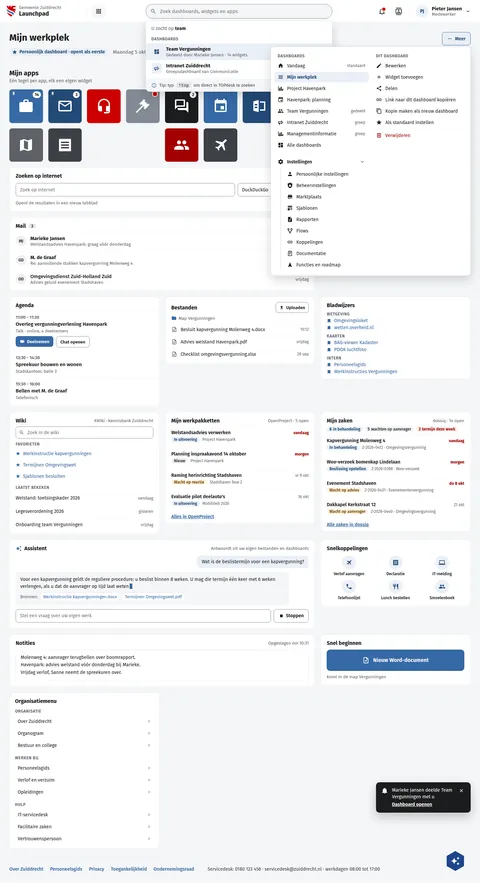
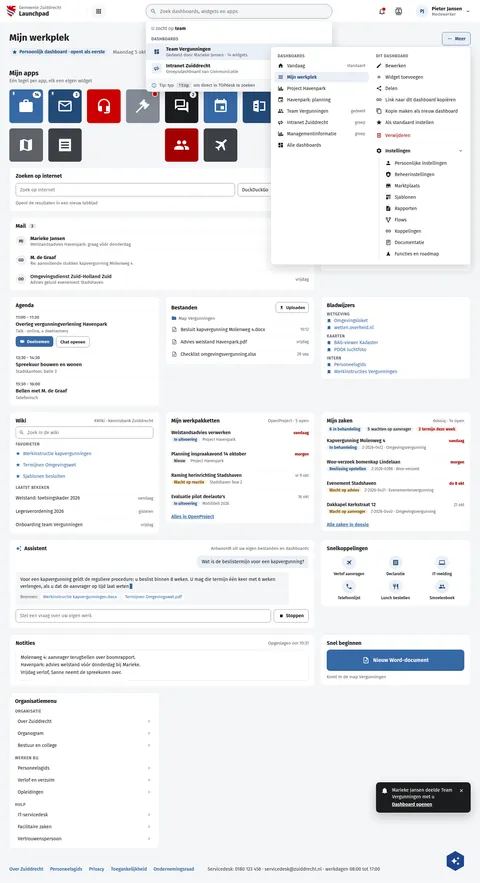
fix(screens): launchpad Meer menu moves Instellingen to the bottom of the right column
The expandable Instellingen item of the shared part LpMeer leaves the left column, which now holds only Dashboards and Alle dashboards. It sits at the bottom of the right column, under Verwijderen and a second rule, and unfolds in place there. Under 960 px the one-column menu reads Dashboards, Dit dashboard, Instellingen last. LpVandaag (collapsed) and LpWerkplek (expanded) are rebuilt; the capability note and DEMO-SEED follow.

The English catalogue translates the three menu strings that were empty in _common.json once, in place of per-board copies, so the one menu reads the same on every board.

Assisted-by: ClaudeCode:claude-fable-5-1

Changed region(s): [[0.7812, 0.1529, 0.9375, 0.3058], [0.5938, 0.1835, 0.7188, 0.3058]]

diff --git a/preview/screens/boards/LpWerkplek.html b/preview/screens/boards/LpWerkplek.html
@@ -112,7 +112,25 @@ a{color:var(--sc-primary, #3669a5)}a:hover{color:var(--sc-primary-deep, #234a78)
     
       <a href="#" role="menuitem" aria-checked="false" style="display: flex; align-items: center; gap: 10px; min-height: 32px; padding: 0 10px; border-radius: 6px; font-size: 14px; text-decoration: none; color: var(--sc-work-ink, #1b1c1d);"><svg width="18" height="18" viewbox="0 0 24 24" fill="currentColor" aria-hidden="true" style="flex: none"><path d="M13,3V9H21V3M13,21H21V11H13M3,21H11V15H3M3,13H11V3H3V13Z"></path></svg><span style="flex: 1; min-width: 0; white-space: nowrap; overflow: hidden; text-overflow: ellipsis">Alle dashboards</span></a>
     
-    <a href="#" role="menuitem" aria-haspopup="true" aria-expanded="true" style="display: flex; align-items: center; gap: 10px; min-height: 32px; padding: 0 10px; border-radius: 6px; font-size: 14px; text-decoration: none; margin-top: 6px; border-top: 1px solid var(--sc-work-soft, #eef0f3); border-radius: 0; padding-top: 6px; min-height: 38px; color: var(--sc-work-ink, #1b1c1d); font-weight: 600;"><svg width="18" height="18" viewbox="0 0 24 24" fill="currentColor" aria-hidden="true" style="flex: none"><path d="M12,15.5A3.5,3.5 0 0,1 8.5,12A3.5,3.5 0 0,1 12,8.5A3.5,3.5 0 0,1 15.5,12A3.5,3.5 0 0,1 12,15.5M19.43,12.97C19.47,12.65 19.5,12.33 19.5,12C19.5,11.67 19.47,11.34 19.43,11L21.54,9.37C21.73,9.22 21.78,8.95 21.66,8.73L19.66,5.27C19.54,5.05 19.27,4.96 19.05,5.05L16.56,6.05C16.04,5.66 15.5,5.32 14.87,5.07L14.5,2.42C14.46,2.18 14.25,2 14,2H10C9.75,2 9.54,2.18 9.5,2.42L9.13,5.07C8.5,5.32 7.96,5.66 7.44,6.05L4.95,5.05C4.73,4.96 4.46,5.05 4.34,5.27L2.34,8.73C2.21,8.95 2.27,9.22 2.46,9.37L4.57,11C4.53,11.34 4.5,11.67 4.5,12C4.5,12.33 4.53,12.65 4.57,12.97L2.46,14.63C2.27,14.78 2.21,15.05 2.34,15.27L4.34,18.73C4.46,18.95 4.73,19.03 4.95,18.95L7.44,17.94C7.96,18.34 8.5,18.68 9.13,18.93L9.5,21.58C9.54,21.82 9.75,22 10,22H14C14.25,22 14.46,21.82 14.5,21.58L14.87,18.93C15.5,18.67 16.04,18.34 16.56,17.94L19.05,18.95C19.27,19.03 19.54,18.95 19.66,18.73L21.66,15.27C21.78,15.05 21.73,14.78 21.54,14.63L19.43,12.97Z"></path></svg><span style="flex: 1; min-width: 0">Instellingen</span><svg width="18" height="18" viewbox="0 0 24 24" fill="#5e6168" aria-hidden="true" style="flex: none;fill:var(--sc-work-muted, #5e6168)"><path d="M7.41,8.58L12,13.17L16.59,8.58L18,10L12,16L6,10L7.41,8.58Z"></path></svg></a>
+  </div>
+  <div style="display: flex; flex-direction: column; gap: 2px; min-width: 0">
+    <span style="padding: 10px 10px 4px; font-size: 12px; font-weight: 600; letter-spacing: 0.06em; text-transform: uppercase; color: var(--sc-work-muted, #5e6168)">Dit dashboard</span>
+    
+      <a href="#" role="menuitem" style="display: flex; align-items: center; gap: 10px; min-height: 32px; padding: 0 10px; border-radius: 6px; font-size: 14px; text-decoration: none; color: var(--sc-work-ink, #1b1c1d);"><svg width="18" height="18" viewbox="0 0 24 24" fill="currentColor" aria-hidden="true" style="flex: none"><path d="M20.71,7.04C21.1,6.65 21.1,6 20.71,5.63L18.37,3.29C18,2.9 17.35,2.9 16.96,3.29L15.12,5.12L18.87,8.87M3,17.25V21H6.75L17.81,9.93L14.06,6.18L3,17.25Z"></path></svg><span style="flex: 1; min-width: 0; white-space: nowrap; overflow: hidden; text-overflow: ellipsis">Bewerken</span></a>
+    
+      <a href="#" role="menuitem" style="display: flex; align-items: center; gap: 10px; min-height: 32px; padding: 0 10px; border-radius: 6px; font-size: 14px; text-decoration: none; color: var(--sc-work-ink, #1b1c1d);"><svg width="18" height="18" viewbox="0 0 24 24" fill="currentColor" aria-hidden="true" style="flex: none"><path d="M19,13H13V19H11V13H5V11H11V5H13V11H19V13Z"></path></svg><span style="flex: 1; min-width: 0; white-space: nowrap; overflow: hidden; text-overflow: ellipsis">Widget toevoegen</span></a>
+    
+      <a href="#" role="menuitem" style="display: flex; align-items: center; gap: 10px; min-height: 32px; padding: 0 10px; border-radius: 6px; font-size: 14px; text-decoration: none; color: var(--sc-work-ink, #1b1c1d);"><svg width="18" height="18" viewbox="0 0 24 24" fill="currentColor" aria-hidden="true" style="flex: none"><path d="M18,16.08C17.24,16.08 16.56,16.38 16.04,16.85L8.91,12.7C8.96,12.47 9,12.24 9,12C9,11.76 8.96,11.53 8.91,11.3L15.96,7.19C16.5,7.69 17.21,8 18,8A3,3 0 0,0 21,5A3,3 0 0,0 18,2A3,3 0 0,0 15,5C15,5.24 15.04,5.47 15.09,5.7L8.04,9.81C7.5,9.31 6.79,9 6,9A3,3 0 0,0 3,12A3,3 0 0,0 6,15C6.79,15 7.5,14.69 8.04,14.19L15.16,18.34C15.11,18.55 15.08,18.77 15.08,19C15.08,20.61 16.39,21.91 18,21.91C19.61,21.91 20.92,20.61 20.92,19A2.92,2.92 0 0,0 18,16.08Z"></path></svg><span style="flex: 1; min-width: 0; white-space: nowrap; overflow: hidden; text-overflow: ellipsis">Delen</span></a>
+    
+      <a href="#" role="menuitem" style="display: flex; align-items: center; gap: 10px; min-height: 32px; padding: 0 10px; border-radius: 6px; font-size: 14px; text-decoration: none; color: var(--sc-work-ink, #1b1c1d);"><svg width="18" height="18" viewbox="0 0 24 24" fill="currentColor" aria-hidden="true" style="flex: none"><path d="M3.9,12C3.9,10.29 5.29,8.9 7,8.9H11V7H7A5,5 0 0,0 2,12A5,5 0 0,0 7,17H11V15.1H7C5.29,15.1 3.9,13.71 3.9,12M8,13H16V11H8V13M17,7H13V8.9H17C18.71,8.9 20.1,10.29 20.1,12C20.1,13.71 18.71,15.1 17,15.1H13V17H17A5,5 0 0,0 22,12A5,5 0 0,0 17,7Z"></path></svg><span style="flex: 1; min-width: 0; white-space: nowrap; overflow: hidden; text-overflow: ellipsis">Link naar dit dashboard kopiëren</span></a>
+    
+      <a href="#" role="menuitem" style="display: flex; align-items: center; gap: 10px; min-height: 32px; padding: 0 10px; border-radius: 6px; font-size: 14px; text-decoration: none; color: var(--sc-work-ink, #1b1c1d);"><svg width="18" height="18" viewbox="0 0 24 24" fill="currentColor" aria-hidden="true" style="flex: none"><path d="M19,21H8V7H19M19,5H8A2,2 0 0,0 6,7V21A2,2 0 0,0 8,23H19A2,2 0 0,0 21,21V7A2,2 0 0,0 19,5M16,1H4A2,2 0 0,0 2,3V17H4V3H16V1Z"></path></svg><span style="flex: 1; min-width: 0; white-space: nowrap; overflow: hidden; text-overflow: ellipsis">Kopie maken als nieuw dashboard</span></a>
+    
+      <a href="#" role="menuitem" style="display: flex; align-items: center; gap: 10px; min-height: 32px; padding: 0 10px; border-radius: 6px; font-size: 14px; text-decoration: none; color: var(--sc-work-ink, #1b1c1d);"><svg width="18" height="18" viewbox="0 0 24 24" fill="currentColor" aria-hidden="true" style="flex: none"><path d="M12,17.27L18.18,21L16.54,13.97L22,9.24L14.81,8.62L12,2L9.19,8.62L2,9.24L7.45,13.97L5.82,21L12,17.27Z"></path></svg><span style="flex: 1; min-width: 0; white-space: nowrap; overflow: hidden; text-overflow: ellipsis">Als standaard instellen</span></a>
+    
+      <a href="#" role="menuitem" style="display: flex; align-items: center; gap: 10px; min-height: 32px; padding: 0 10px; border-radius: 6px; font-size: 14px; text-decoration: none; color: var(--sc-accent-deep, #a30000); border-top: 1px solid var(--sc-work-soft, #eef0f3); border-radius: 0; margin-top: 4px;"><svg width="18" height="18" viewbox="0 0 24 24" fill="currentColor" aria-hidden="true" style="flex: none"><path d="M9,3V4H4V6H5V19A2,2 0 0,0 7,21H17A2,2 0 0,0 19,19V6H20V4H15V3H9M7,6H17V19H7V6M9,8V17H11V8H9M13,8V17H15V8H13Z"></path></svg><span style="flex: 1; min-width: 0; white-space: nowrap; overflow: hidden; text-overflow: ellipsis">Verwijderen</span></a>
+    
+    <a href="#" role="menuitem" aria-haspopup="true" aria-expanded="true" style="display: flex; align-items: center; gap: 10px; min-height: 32px; padding: 0 10px; border-radius: 6px; font-size: 14px; text-decoration: none; margin-top: 4px; border-top: 1px solid var(--sc-work-soft, #eef0f3); border-radius: 0; padding-top: 4px; min-height: 38px; color: var(--sc-work-ink, #1b1c1d); font-weight: 600;"><svg width="18" height="18" viewbox="0 0 24 24" fill="currentColor" aria-hidden="true" style="flex: none"><path d="M12,15.5A3.5,3.5 0 0,1 8.5,12A3.5,3.5 0 0,1 12,8.5A3.5,3.5 0 0,1 15.5,12A3.5,3.5 0 0,1 12,15.5M19.43,12.97C19.47,12.65 19.5,12.33 19.5,12C19.5,11.67 19.47,11.34 19.43,11L21.54,9.37C21.73,9.22 21.78,8.95 21.66,8.73L19.66,5.27C19.54,5.05 19.27,4.96 19.05,5.05L16.56,6.05C16.04,5.66 15.5,5.32 14.87,5.07L14.5,2.42C14.46,2.18 14.25,2 14,2H10C9.75,2 9.54,2.18 9.5,2.42L9.13,5.07C8.5,5.32 7.96,5.66 7.44,6.05L4.95,5.05C4.73,4.96 4.46,5.05 4.34,5.27L2.34,8.73C2.21,8.95 2.27,9.22 2.46,9.37L4.57,11C4.53,11.34 4.5,11.67 4.5,12C4.5,12.33 4.53,12.65 4.57,12.97L2.46,14.63C2.27,14.78 2.21,15.05 2.34,15.27L4.34,18.73C4.46,18.95 4.73,19.03 4.95,18.95L7.44,17.94C7.96,18.34 8.5,18.68 9.13,18.93L9.5,21.58C9.54,21.82 9.75,22 10,22H14C14.25,22 14.46,21.82 14.5,21.58L14.87,18.93C15.5,18.67 16.04,18.34 16.56,17.94L19.05,18.95C19.27,19.03 19.54,18.95 19.66,18.73L21.66,15.27C21.78,15.05 21.73,14.78 21.54,14.63L19.43,12.97Z"></path></svg><span style="flex: 1; min-width: 0">Instellingen</span><svg width="18" height="18" viewbox="0 0 24 24" fill="#5e6168" aria-hidden="true" style="flex: none;fill:var(--sc-work-muted, #5e6168)"><path d="M7.41,8.58L12,13.17L16.59,8.58L18,10L12,16L6,10L7.41,8.58Z"></path></svg></a>
     
       <div role="group" aria-label="Instellingen" style="display: flex; flex-direction: column; gap: 2px; margin: 0 0 4px 18px; padding-left: 8px; border-left: 2px solid var(--sc-work-line, #e4e6ea)">
         
@@ -135,24 +153,6 @@ a{color:var(--sc-primary, #3669a5)}a:hover{color:var(--sc-primary-deep, #234a78)
           <a href="#" role="menuitem" style="display: flex; align-items: center; gap: 10px; min-height: 32px; padding: 0 10px; border-radius: 6px; font-size: 14px; text-decoration: none; color: var(--sc-work-ink, #1b1c1d);"><svg width="18" height="18" viewbox="0 0 24 24" fill="currentColor" aria-hidden="true" style="flex: none"><path d="M12,2L4.5,20.29L5.21,21L12,18L18.79,21L19.5,20.29L12,2Z"></path></svg><span style="flex: 1; min-width: 0; white-space: nowrap; overflow: hidden; text-overflow: ellipsis">Functies en roadmap</span></a>
         
       </div>
-    
-  </div>
-  <div style="display: flex; flex-direction: column; gap: 2px; min-width: 0">
-    <span style="padding: 10px 10px 4px; font-size: 12px; font-weight: 600; letter-spacing: 0.06em; text-transform: uppercase; color: var(--sc-work-muted, #5e6168)">Dit dashboard</span>
-    
-      <a href="#" role="menuitem" style="display: flex; align-items: center; gap: 10px; min-height: 32px; padding: 0 10px; border-radius: 6px; font-size: 14px; text-decoration: none; color: var(--sc-work-ink, #1b1c1d);"><svg width="18" height="18" viewbox="0 0 24 24" fill="currentColor" aria-hidden="true" style="flex: none"><path d="M20.71,7.04C21.1,6.65 21.1,6 20.71,5.63L18.37,3.29C18,2.9 17.35,2.9 16.96,3.29L15.12,5.12L18.87,8.87M3,17.25V21H6.75L17.81,9.93L14.06,6.18L3,17.25Z"></path></svg><span style="flex: 1; min-width: 0; white-space: nowrap; overflow: hidden; text-overflow: ellipsis">Bewerken</span></a>
-    
-      <a href="#" role="menuitem" style="display: flex; align-items: center; gap: 10px; min-height: 32px; padding: 0 10px; border-radius: 6px; font-size: 14px; text-decoration: none; color: var(--sc-work-ink, #1b1c1d);"><svg width="18" height="18" viewbox="0 0 24 24" fill="currentColor" aria-hidden="true" style="flex: none"><path d="M19,13H13V19H11V13H5V11H11V5H13V11H19V13Z"></path></svg><span style="flex: 1; min-width: 0; white-space: nowrap; overflow: hidden; text-overflow: ellipsis">Widget toevoegen</span></a>
-    
-      <a href="#" role="menuitem" style="display: flex; align-items: center; gap: 10px; min-height: 32px; padding: 0 10px; border-radius: 6px; font-size: 14px; text-decoration: none; color: var(--sc-work-ink, #1b1c1d);"><svg width="18" height="18" viewbox="0 0 24 24" fill="currentColor" aria-hidden="true" style="flex: none"><path d="M18,16.08C17.24,16.08 16.56,16.38 16.04,16.85L8.91,12.7C8.96,12.47 9,12.24 9,12C9,11.76 8.96,11.53 8.91,11.3L15.96,7.19C16.5,7.69 17.21,8 18,8A3,3 0 0,0 21,5A3,3 0 0,0 18,2A3,3 0 0,0 15,5C15,5.24 15.04,5.47 15.09,5.7L8.04,9.81C7.5,9.31 6.79,9 6,9A3,3 0 0,0 3,12A3,3 0 0,0 6,15C6.79,15 7.5,14.69 8.04,14.19L15.16,18.34C15.11,18.55 15.08,18.77 15.08,19C15.08,20.61 16.39,21.91 18,21.91C19.61,21.91 20.92,20.61 20.92,19A2.92,2.92 0 0,0 18,16.08Z"></path></svg><span style="flex: 1; min-width: 0; white-space: nowrap; overflow: hidden; text-overflow: ellipsis">Delen</span></a>
-    
-      <a href="#" role="menuitem" style="display: flex; align-items: center; gap: 10px; min-height: 32px; padding: 0 10px; border-radius: 6px; font-size: 14px; text-decoration: none; color: var(--sc-work-ink, #1b1c1d);"><svg width="18" height="18" viewbox="0 0 24 24" fill="currentColor" aria-hidden="true" style="flex: none"><path d="M3.9,12C3.9,10.29 5.29,8.9 7,8.9H11V7H7A5,5 0 0,0 2,12A5,5 0 0,0 7,17H11V15.1H7C5.29,15.1 3.9,13.71 3.9,12M8,13H16V11H8V13M17,7H13V8.9H17C18.71,8.9 20.1,10.29 20.1,12C20.1,13.71 18.71,15.1 17,15.1H13V17H17A5,5 0 0,0 22,12A5,5 0 0,0 17,7Z"></path></svg><span style="flex: 1; min-width: 0; white-space: nowrap; overflow: hidden; text-overflow: ellipsis">Link naar dit dashboard kopiëren</span></a>
-    
-      <a href="#" role="menuitem" style="display: flex; align-items: center; gap: 10px; min-height: 32px; padding: 0 10px; border-radius: 6px; font-size: 14px; text-decoration: none; color: var(--sc-work-ink, #1b1c1d);"><svg width="18" height="18" viewbox="0 0 24 24" fill="currentColor" aria-hidden="true" style="flex: none"><path d="M19,21H8V7H19M19,5H8A2,2 0 0,0 6,7V21A2,2 0 0,0 8,23H19A2,2 0 0,0 21,21V7A2,2 0 0,0 19,5M16,1H4A2,2 0 0,0 2,3V17H4V3H16V1Z"></path></svg><span style="flex: 1; min-width: 0; white-space: nowrap; overflow: hidden; text-overflow: ellipsis">Kopie maken als nieuw dashboard</span></a>
-    
-      <a href="#" role="menuitem" style="display: flex; align-items: center; gap: 10px; min-height: 32px; padding: 0 10px; border-radius: 6px; font-size: 14px; text-decoration: none; color: var(--sc-work-ink, #1b1c1d);"><svg width="18" height="18" viewbox="0 0 24 24" fill="currentColor" aria-hidden="true" style="flex: none"><path d="M12,17.27L18.18,21L16.54,13.97L22,9.24L14.81,8.62L12,2L9.19,8.62L2,9.24L7.45,13.97L5.82,21L12,17.27Z"></path></svg><span style="flex: 1; min-width: 0; white-space: nowrap; overflow: hidden; text-overflow: ellipsis">Als standaard instellen</span></a>
-    
-      <a href="#" role="menuitem" style="display: flex; align-items: center; gap: 10px; min-height: 32px; padding: 0 10px; border-radius: 6px; font-size: 14px; text-decoration: none; color: var(--sc-accent-deep, #a30000); border-top: 1px solid var(--sc-work-soft, #eef0f3); border-radius: 0 0 6px 6px; margin-top: 4px;"><svg width="18" height="18" viewbox="0 0 24 24" fill="currentColor" aria-hidden="true" style="flex: none"><path d="M9,3V4H4V6H5V19A2,2 0 0,0 7,21H17A2,2 0 0,0 19,19V6H20V4H15V3H9M7,6H17V19H7V6M9,8V17H11V8H9M13,8V17H15V8H13Z"></path></svg><span style="flex: 1; min-width: 0; white-space: nowrap; overflow: hidden; text-overflow: ellipsis">Verwijderen</span></a>
     
   </div>
 </div>

diff --git a/preview/screens/boards/LpMeer.html b/preview/screens/boards/LpMeer.html
@@ -39,7 +39,25 @@ body{margin:0}
     
       <a href="#" role="menuitem" aria-checked="false" style="display: flex; align-items: center; gap: 10px; min-height: 32px; padding: 0 10px; border-radius: 6px; font-size: 14px; text-decoration: none; color: var(--sc-work-ink, #1b1c1d);"><svg width="18" height="18" viewbox="0 0 24 24" fill="currentColor" aria-hidden="true" style="flex: none"><path d="M13,3V9H21V3M13,21H21V11H13M3,21H11V15H3M3,13H11V3H3V13Z"></path></svg><span style="flex: 1; min-width: 0; white-space: nowrap; overflow: hidden; text-overflow: ellipsis">Alle dashboards</span></a>
     
-    <a href="#" role="menuitem" aria-haspopup="true" aria-expanded="true" style="display: flex; align-items: center; gap: 10px; min-height: 32px; padding: 0 10px; border-radius: 6px; font-size: 14px; text-decoration: none; margin-top: 6px; border-top: 1px solid var(--sc-work-soft, #eef0f3); border-radius: 0; padding-top: 6px; min-height: 38px; color: var(--sc-work-ink, #1b1c1d); font-weight: 600;"><svg width="18" height="18" viewbox="0 0 24 24" fill="currentColor" aria-hidden="true" style="flex: none"><path d="M12,15.5A3.5,3.5 0 0,1 8.5,12A3.5,3.5 0 0,1 12,8.5A3.5,3.5 0 0,1 15.5,12A3.5,3.5 0 0,1 12,15.5M19.43,12.97C19.47,12.65 19.5,12.33 19.5,12C19.5,11.67 19.47,11.34 19.43,11L21.54,9.37C21.73,9.22 21.78,8.95 21.66,8.73L19.66,5.27C19.54,5.05 19.27,4.96 19.05,5.05L16.56,6.05C16.04,5.66 15.5,5.32 14.87,5.07L14.5,2.42C14.46,2.18 14.25,2 14,2H10C9.75,2 9.54,2.18 9.5,2.42L9.13,5.07C8.5,5.32 7.96,5.66 7.44,6.05L4.95,5.05C4.73,4.96 4.46,5.05 4.34,5.27L2.34,8.73C2.21,8.95 2.27,9.22 2.46,9.37L4.57,11C4.53,11.34 4.5,11.67 4.5,12C4.5,12.33 4.53,12.65 4.57,12.97L2.46,14.63C2.27,14.78 2.21,15.05 2.34,15.27L4.34,18.73C4.46,18.95 4.73,19.03 4.95,18.95L7.44,17.94C7.96,18.34 8.5,18.68 9.13,18.93L9.5,21.58C9.54,21.82 9.75,22 10,22H14C14.25,22 14.46,21.82 14.5,21.58L14.87,18.93C15.5,18.67 16.04,18.34 16.56,17.94L19.05,18.95C19.27,19.03 19.54,18.95 19.66,18.73L21.66,15.27C21.78,15.05 21.73,14.78 21.54,14.63L19.43,12.97Z"></path></svg><span style="flex: 1; min-width: 0">Instellingen</span><svg width="18" height="18" viewbox="0 0 24 24" fill="#5e6168" aria-hidden="true" style="flex: none;fill:var(--sc-work-muted, #5e6168)"><path d="M7.41,8.58L12,13.17L16.59,8.58L18,10L12,16L6,10L7.41,8.58Z"></path></svg></a>
+  </div>
+  <div style="display: flex; flex-direction: column; gap: 2px; min-width: 0">
+    <span style="padding: 10px 10px 4px; font-size: 12px; font-weight: 600; letter-spacing: 0.06em; text-transform: uppercase; color: var(--sc-work-muted, #5e6168)">Dit dashboard</span>
+    
+      <a href="#" role="menuitem" style="display: flex; align-items: center; gap: 10px; min-height: 32px; padding: 0 10px; border-radius: 6px; font-size: 14px; text-decoration: none; color: var(--sc-work-ink, #1b1c1d);"><svg width="18" height="18" viewbox="0 0 24 24" fill="currentColor" aria-hidden="true" style="flex: none"><path d="M20.71,7.04C21.1,6.65 21.1,6 20.71,5.63L18.37,3.29C18,2.9 17.35,2.9 16.96,3.29L15.12,5.12L18.87,8.87M3,17.25V21H6.75L17.81,9.93L14.06,6.18L3,17.25Z"></path></svg><span style="flex: 1; min-width: 0; white-space: nowrap; overflow: hidden; text-overflow: ellipsis">Bewerken</span></a>
+    
+      <a href="#" role="menuitem" style="display: flex; align-items: center; gap: 10px; min-height: 32px; padding: 0 10px; border-radius: 6px; font-size: 14px; text-decoration: none; color: var(--sc-work-ink, #1b1c1d);"><svg width="18" height="18" viewbox="0 0 24 24" fill="currentColor" aria-hidden="true" style="flex: none"><path d="M19,13H13V19H11V13H5V11H11V5H13V11H19V13Z"></path></svg><span style="flex: 1; min-width: 0; white-space: nowrap; overflow: hidden; text-overflow: ellipsis">Widget toevoegen</span></a>
+    
+      <a href="#" role="menuitem" style="display: flex; align-items: center; gap: 10px; min-height: 32px; padding: 0 10px; border-radius: 6px; font-size: 14px; text-decoration: none; color: var(--sc-work-ink, #1b1c1d);"><svg width="18" height="18" viewbox="0 0 24 24" fill="currentColor" aria-hidden="true" style="flex: none"><path d="M18,16.08C17.24,16.08 16.56,16.38 16.04,16.85L8.91,12.7C8.96,12.47 9,12.24 9,12C9,11.76 8.96,11.53 8.91,11.3L15.96,7.19C16.5,7.69 17.21,8 18,8A3,3 0 0,0 21,5A3,3 0 0,0 18,2A3,3 0 0,0 15,5C15,5.24 15.04,5.47 15.09,5.7L8.04,9.81C7.5,9.31 6.79,9 6,9A3,3 0 0,0 3,12A3,3 0 0,0 6,15C6.79,15 7.5,14.69 8.04,14.19L15.16,18.34C15.11,18.55 15.08,18.77 15.08,19C15.08,20.61 16.39,21.91 18,21.91C19.61,21.91 20.92,20.61 20.92,19A2.92,2.92 0 0,0 18,16.08Z"></path></svg><span style="flex: 1; min-width: 0; white-space: nowrap; overflow: hidden; text-overflow: ellipsis">Delen</span></a>
+    
+      <a href="#" role="menuitem" style="display: flex; align-items: center; gap: 10px; min-height: 32px; padding: 0 10px; border-radius: 6px; font-size: 14px; text-decoration: none; color: var(--sc-work-ink, #1b1c1d);"><svg width="18" height="18" viewbox="0 0 24 24" fill="currentColor" aria-hidden="true" style="flex: none"><path d="M3.9,12C3.9,10.29 5.29,8.9 7,8.9H11V7H7A5,5 0 0,0 2,12A5,5 0 0,0 7,17H11V15.1H7C5.29,15.1 3.9,13.71 3.9,12M8,13H16V11H8V13M17,7H13V8.9H17C18.71,8.9 20.1,10.29 20.1,12C20.1,13.71 18.71,15.1 17,15.1H13V17H17A5,5 0 0,0 22,12A5,5 0 0,0 17,7Z"></path></svg><span style="flex: 1; min-width: 0; white-space: nowrap; overflow: hidden; text-overflow: ellipsis">Link naar dit dashboard kopiëren</span></a>
+    
+      <a href="#" role="menuitem" style="display: flex; align-items: center; gap: 10px; min-height: 32px; padding: 0 10px; border-radius: 6px; font-size: 14px; text-decoration: none; color: var(--sc-work-ink, #1b1c1d);"><svg width="18" height="18" viewbox="0 0 24 24" fill="currentColor" aria-hidden="true" style="flex: none"><path d="M19,21H8V7H19M19,5H8A2,2 0 0,0 6,7V21A2,2 0 0,0 8,23H19A2,2 0 0,0 21,21V7A2,2 0 0,0 19,5M16,1H4A2,2 0 0,0 2,3V17H4V3H16V1Z"></path></svg><span style="flex: 1; min-width: 0; white-space: nowrap; overflow: hidden; text-overflow: ellipsis">Kopie maken als nieuw dashboard</span></a>
+    
+      <a href="#" role="menuitem" style="display: flex; align-items: center; gap: 10px; min-height: 32px; padding: 0 10px; border-radius: 6px; font-size: 14px; text-decoration: none; color: var(--sc-work-ink, #1b1c1d);"><svg width="18" height="18" viewbox="0 0 24 24" fill="currentColor" aria-hidden="true" style="flex: none"><path d="M12,17.27L18.18,21L16.54,13.97L22,9.24L14.81,8.62L12,2L9.19,8.62L2,9.24L7.45,13.97L5.82,21L12,17.27Z"></path></svg><span style="flex: 1; min-width: 0; white-space: nowrap; overflow: hidden; text-overflow: ellipsis">Als standaard instellen</span></a>
+    
+      <a href="#" role="menuitem" style="display: flex; align-items: center; gap: 10px; min-height: 32px; padding: 0 10px; border-radius: 6px; font-size: 14px; text-decoration: none; color: var(--sc-accent-deep, #a30000); border-top: 1px solid var(--sc-work-soft, #eef0f3); border-radius: 0; margin-top: 4px;"><svg width="18" height="18" viewbox="0 0 24 24" fill="currentColor" aria-hidden="true" style="flex: none"><path d="M9,3V4H4V6H5V19A2,2 0 0,0 7,21H17A2,2 0 0,0 19,19V6H20V4H15V3H9M7,6H17V19H7V6M9,8V17H11V8H9M13,8V17H15V8H13Z"></path></svg><span style="flex: 1; min-width: 0; white-space: nowrap; overflow: hidden; text-overflow: ellipsis">Verwijderen</span></a>
+    
+    <a href="#" role="menuitem" aria-haspopup="true" aria-expanded="true" style="display: flex; align-items: center; gap: 10px; min-height: 32px; padding: 0 10px; border-radius: 6px; font-size: 14px; text-decoration: none; margin-top: 4px; border-top: 1px solid var(--sc-work-soft, #eef0f3); border-radius: 0; padding-top: 4px; min-height: 38px; color: var(--sc-work-ink, #1b1c1d); font-weight: 600;"><svg width="18" height="18" viewbox="0 0 24 24" fill="currentColor" aria-hidden="true" style="flex: none"><path d="M12,15.5A3.5,3.5 0 0,1 8.5,12A3.5,3.5 0 0,1 12,8.5A3.5,3.5 0 0,1 15.5,12A3.5,3.5 0 0,1 12,15.5M19.43,12.97C19.47,12.65 19.5,12.33 19.5,12C19.5,11.67 19.47,11.34 19.43,11L21.54,9.37C21.73,9.22 21.78,8.95 21.66,8.73L19.66,5.27C19.54,5.05 19.27,4.96 19.05,5.05L16.56,6.05C16.04,5.66 15.5,5.32 14.87,5.07L14.5,2.42C14.46,2.18 14.25,2 14,2H10C9.75,2 9.54,2.18 9.5,2.42L9.13,5.07C8.5,5.32 7.96,5.66 7.44,6.05L4.95,5.05C4.73,4.96 4.46,5.05 4.34,5.27L2.34,8.73C2.21,8.95 2.27,9.22 2.46,9.37L4.57,11C4.53,11.34 4.5,11.67 4.5,12C4.5,12.33 4.53,12.65 4.57,12.97L2.46,14.63C2.27,14.78 2.21,15.05 2.34,15.27L4.34,18.73C4.46,18.95 4.73,19.03 4.95,18.95L7.44,17.94C7.96,18.34 8.5,18.68 9.13,18.93L9.5,21.58C9.54,21.82 9.75,22 10,22H14C14.25,22 14.46,21.82 14.5,21.58L14.87,18.93C15.5,18.67 16.04,18.34 16.56,17.94L19.05,18.95C19.27,19.03 19.54,18.95 19.66,18.73L21.66,15.27C21.78,15.05 21.73,14.78 21.54,14.63L19.43,12.97Z"></path></svg><span style="flex: 1; min-width: 0">Instellingen</span><svg width="18" height="18" viewbox="0 0 24 24" fill="#5e6168" aria-hidden="true" style="flex: none;fill:var(--sc-work-muted, #5e6168)"><path d="M7.41,8.58L12,13.17L16.59,8.58L18,10L12,16L6,10L7.41,8.58Z"></path></svg></a>
     
       <div role="group" aria-label="Instellingen" style="display: flex; flex-direction: column; gap: 2px; margin: 0 0 4px 18px; padding-left: 8px; border-left: 2px solid var(--sc-work-line, #e4e6ea)">
         
@@ -62,24 +80,6 @@ body{margin:0}
           <a href="#" role="menuitem" style="display: flex; align-items: center; gap: 10px; min-height: 32px; padding: 0 10px; border-radius: 6px; font-size: 14px; text-decoration: none; color: var(--sc-work-ink, #1b1c1d);"><svg width="18" height="18" viewbox="0 0 24 24" fill="currentColor" aria-hidden="true" style="flex: none"><path d="M12,2L4.5,20.29L5.21,21L12,18L18.79,21L19.5,20.29L12,2Z"></path></svg><span style="flex: 1; min-width: 0; white-space: nowrap; overflow: hidden; text-overflow: ellipsis">Functies en roadmap</span></a>
         
       </div>
-    
-  </div>
-  <div style="display: flex; flex-direction: column; gap: 2px; min-width: 0">
-    <span style="padding: 10px 10px 4px; font-size: 12px; font-weight: 600; letter-spacing: 0.06em; text-transform: uppercase; color: var(--sc-work-muted, #5e6168)">Dit dashboard</span>
-    
-      <a href="#" role="menuitem" style="display: flex; align-items: center; gap: 10px; min-height: 32px; padding: 0 10px; border-radius: 6px; font-size: 14px; text-decoration: none; color: var(--sc-work-ink, #1b1c1d);"><svg width="18" height="18" viewbox="0 0 24 24" fill="currentColor" aria-hidden="true" style="flex: none"><path d="M20.71,7.04C21.1,6.65 21.1,6 20.71,5.63L18.37,3.29C18,2.9 17.35,2.9 16.96,3.29L15.12,5.12L18.87,8.87M3,17.25V21H6.75L17.81,9.93L14.06,6.18L3,17.25Z"></path></svg><span style="flex: 1; min-width: 0; white-space: nowrap; overflow: hidden; text-overflow: ellipsis">Bewerken</span></a>
-    
-      <a href="#" role="menuitem" style="display: flex; align-items: center; gap: 10px; min-height: 32px; padding: 0 10px; border-radius: 6px; font-size: 14px; text-decoration: none; color: var(--sc-work-ink, #1b1c1d);"><svg width="18" height="18" viewbox="0 0 24 24" fill="currentColor" aria-hidden="true" style="flex: none"><path d="M19,13H13V19H11V13H5V11H11V5H13V11H19V13Z"></path></svg><span style="flex: 1; min-width: 0; white-space: nowrap; overflow: hidden; text-overflow: ellipsis">Widget toevoegen</span></a>
-    
-      <a href="#" role="menuitem" style="display: flex; align-items: center; gap: 10px; min-height: 32px; padding: 0 10px; border-radius: 6px; font-size: 14px; text-decoration: none; color: var(--sc-work-ink, #1b1c1d);"><svg width="18" height="18" viewbox="0 0 24 24" fill="currentColor" aria-hidden="true" style="flex: none"><path d="M18,16.08C17.24,16.08 16.56,16.38 16.04,16.85L8.91,12.7C8.96,12.47 9,12.24 9,12C9,11.76 8.96,11.53 8.91,11.3L15.96,7.19C16.5,7.69 17.21,8 18,8A3,3 0 0,0 21,5A3,3 0 0,0 18,2A3,3 0 0,0 15,5C15,5.24 15.04,5.47 15.09,5.7L8.04,9.81C7.5,9.31 6.79,9 6,9A3,3 0 0,0 3,12A3,3 0 0,0 6,15C6.79,15 7.5,14.69 8.04,14.19L15.16,18.34C15.11,18.55 15.08,18.77 15.08,19C15.08,20.61 16.39,21.91 18,21.91C19.61,21.91 20.92,20.61 20.92,19A2.92,2.92 0 0,0 18,16.08Z"></path></svg><span style="flex: 1; min-width: 0; white-space: nowrap; overflow: hidden; text-overflow: ellipsis">Delen</span></a>
-    
-      <a href="#" role="menuitem" style="display: flex; align-items: center; gap: 10px; min-height: 32px; padding: 0 10px; border-radius: 6px; font-size: 14px; text-decoration: none; color: var(--sc-work-ink, #1b1c1d);"><svg width="18" height="18" viewbox="0 0 24 24" fill="currentColor" aria-hidden="true" style="flex: none"><path d="M3.9,12C3.9,10.29 5.29,8.9 7,8.9H11V7H7A5,5 0 0,0 2,12A5,5 0 0,0 7,17H11V15.1H7C5.29,15.1 3.9,13.71 3.9,12M8,13H16V11H8V13M17,7H13V8.9H17C18.71,8.9 20.1,10.29 20.1,12C20.1,13.71 18.71,15.1 17,15.1H13V17H17A5,5 0 0,0 22,12A5,5 0 0,0 17,7Z"></path></svg><span style="flex: 1; min-width: 0; white-space: nowrap; overflow: hidden; text-overflow: ellipsis">Link naar dit dashboard kopiëren</span></a>
-    
-      <a href="#" role="menuitem" style="display: flex; align-items: center; gap: 10px; min-height: 32px; padding: 0 10px; border-radius: 6px; font-size: 14px; text-decoration: none; color: var(--sc-work-ink, #1b1c1d);"><svg width="18" height="18" viewbox="0 0 24 24" fill="currentColor" aria-hidden="true" style="flex: none"><path d="M19,21H8V7H19M19,5H8A2,2 0 0,0 6,7V21A2,2 0 0,0 8,23H19A2,2 0 0,0 21,21V7A2,2 0 0,0 19,5M16,1H4A2,2 0 0,0 2,3V17H4V3H16V1Z"></path></svg><span style="flex: 1; min-width: 0; white-space: nowrap; overflow: hidden; text-overflow: ellipsis">Kopie maken als nieuw dashboard</span></a>
-    
-      <a href="#" role="menuitem" style="display: flex; align-items: center; gap: 10px; min-height: 32px; padding: 0 10px; border-radius: 6px; font-size: 14px; text-decoration: none; color: var(--sc-work-ink, #1b1c1d);"><svg width="18" height="18" viewbox="0 0 24 24" fill="currentColor" aria-hidden="true" style="flex: none"><path d="M12,17.27L18.18,21L16.54,13.97L22,9.24L14.81,8.62L12,2L9.19,8.62L2,9.24L7.45,13.97L5.82,21L12,17.27Z"></path></svg><span style="flex: 1; min-width: 0; white-space: nowrap; overflow: hidden; text-overflow: ellipsis">Als standaard instellen</span></a>
-    
-      <a href="#" role="menuitem" style="display: flex; align-items: center; gap: 10px; min-height: 32px; padding: 0 10px; border-radius: 6px; font-size: 14px; text-decoration: none; color: var(--sc-accent-deep, #a30000); border-top: 1px solid var(--sc-work-soft, #eef0f3); border-radius: 0 0 6px 6px; margin-top: 4px;"><svg width="18" height="18" viewbox="0 0 24 24" fill="currentColor" aria-hidden="true" style="flex: none"><path d="M9,3V4H4V6H5V19A2,2 0 0,0 7,21H17A2,2 0 0,0 19,19V6H20V4H15V3H9M7,6H17V19H7V6M9,8V17H11V8H9M13,8V17H15V8H13Z"></path></svg><span style="flex: 1; min-width: 0; white-space: nowrap; overflow: hidden; text-overflow: ellipsis">Verwijderen</span></a>
     
   </div>
 </div>

diff --git a/preview/screens/boards/LpVandaag.html b/preview/screens/boards/LpVandaag.html
@@ -112,8 +112,6 @@ a{color:var(--sc-primary, #3669a5)}a:hover{color:var(--sc-primary-deep, #234a78)
     
       <a href="#" role="menuitem" aria-checked="false" style="display: flex; align-items: center; gap: 10px; min-height: 32px; padding: 0 10px; border-radius: 6px; font-size: 14px; text-decoration: none; color: var(--sc-work-ink, #1b1c1d);"><svg width="18" height="18" viewbox="0 0 24 24" fill="currentColor" aria-hidden="true" style="flex: none"><path d="M13,3V9H21V3M13,21H21V11H13M3,21H11V15H3M3,13H11V3H3V13Z"></path></svg><span style="flex: 1; min-width: 0; white-space: nowrap; overflow: hidden; text-overflow: ellipsis">Alle dashboards</span></a>
     
-    <a href="#" role="menuitem" aria-haspopup="true" aria-expanded="false" style="display: flex; align-items: center; gap: 10px; min-height: 32px; padding: 0 10px; border-radius: 6px; font-size: 14px; text-decoration: none; margin-top: 6px; border-top: 1px solid var(--sc-work-soft, #eef0f3); border-radius: 0; padding-top: 6px; min-height: 38px; color: var(--sc-work-ink, #1b1c1d);"><svg width="18" height="18" viewbox="0 0 24 24" fill="currentColor" aria-hidden="true" style="flex: none"><path d="M12,15.5A3.5,3.5 0 0,1 8.5,12A3.5,3.5 0 0,1 12,8.5A3.5,3.5 0 0,1 15.5,12A3.5,3.5 0 0,1 12,15.5M19.43,12.97C19.47,12.65 19.5,12.33 19.5,12C19.5,11.67 19.47,11.34 19.43,11L21.54,9.37C21.73,9.22 21.78,8.95 21.66,8.73L19.66,5.27C19.54,5.05 19.27,4.96 19.05,5.05L16.56,6.05C16.04,5.66 15.5,5.32 14.87,5.07L14.5,2.42C14.46,2.18 14.25,2 14,2H10C9.75,2 9.54,2.18 9.5,2.42L9.13,5.07C8.5,5.32 7.96,5.66 7.44,6.05L4.95,5.05C4.73,4.96 4.46,5.05 4.34,5.27L2.34,8.73C2.21,8.95 2.27,9.22 2.46,9.37L4.57,11C4.53,11.34 4.5,11.67 4.5,12C4.5,12.33 4.53,12.65 4.57,12.97L2.46,14.63C2.27,14.78 2.21,15.05 2.34,15.27L4.34,18.73C4.46,18.95 4.73,19.03 4.95,18.95L7.44,17.94C7.96,18.34 8.5,18.68 9.13,18.93L9.5,21.58C9.54,21.82 9.75,22 10,22H14C14.25,22 14.46,21.82 14.5,21.58L14.87,18.93C15.5,18.67 16.04,18.34 16.56,17.94L19.05,18.95C19.27,19.03 19.54,18.95 19.66,18.73L21.66,15.27C21.78,15.05 21.73,14.78 21.54,14.63L19.43,12.97Z"></path></svg><span style="flex: 1; min-width: 0">Instellingen</span><svg width="18" height="18" viewbox="0 0 24 24" fill="#5e6168" aria-hidden="true" style="flex: none;fill:var(--sc-work-muted, #5e6168)"><path d="M8.59,16.58L13.17,12L8.59,7.41L10,6L16,12L10,18L8.59,16.58Z"></path></svg></a>
-    
   </div>
   <div style="display: flex; flex-direction: column; gap: 2px; min-width: 0">
     <span style="padding: 10px 10px 4px; font-size: 12px; font-weight: 600; letter-spacing: 0.06em; text-transform: uppercase; color: var(--sc-work-muted, #5e6168)">Dit dashboard</span>
@@ -130,7 +128,9 @@ a{color:var(--sc-primary, #3669a5)}a:hover{color:var(--sc-primary-deep, #234a78)
     
       <a href="#" role="menuitem" style="display: flex; align-items: center; gap: 10px; min-height: 32px; padding: 0 10px; border-radius: 6px; font-size: 14px; text-decoration: none; color: var(--sc-work-ink, #1b1c1d);"><svg width="18" height="18" viewbox="0 0 24 24" fill="currentColor" aria-hidden="true" style="flex: none"><path d="M12,17.27L18.18,21L16.54,13.97L22,9.24L14.81,8.62L12,2L9.19,8.62L2,9.24L7.45,13.97L5.82,21L12,17.27Z"></path></svg><span style="flex: 1; min-width: 0; white-space: nowrap; overflow: hidden; text-overflow: ellipsis">Als standaard instellen</span></a>
     
-      <a href="#" role="menuitem" style="display: flex; align-items: center; gap: 10px; min-height: 32px; padding: 0 10px; border-radius: 6px; font-size: 14px; text-decoration: none; color: var(--sc-accent-deep, #a30000); border-top: 1px solid var(--sc-work-soft, #eef0f3); border-radius: 0 0 6px 6px; margin-top: 4px;"><svg width="18" height="18" viewbox="0 0 24 24" fill="currentColor" aria-hidden="true" style="flex: none"><path d="M9,3V4H4V6H5V19A2,2 0 0,0 7,21H17A2,2 0 0,0 19,19V6H20V4H15V3H9M7,6H17V19H7V6M9,8V17H11V8H9M13,8V17H15V8H13Z"></path></svg><span style="flex: 1; min-width: 0; white-space: nowrap; overflow: hidden; text-overflow: ellipsis">Verwijderen</span></a>
+      <a href="#" role="menuitem" style="display: flex; align-items: center; gap: 10px; min-height: 32px; padding: 0 10px; border-radius: 6px; font-size: 14px; text-decoration: none; color: var(--sc-accent-deep, #a30000); border-top: 1px solid var(--sc-work-soft, #eef0f3); border-radius: 0; margin-top: 4px;"><svg width="18" height="18" viewbox="0 0 24 24" fill="currentColor" aria-hidden="true" style="flex: none"><path d="M9,3V4H4V6H5V19A2,2 0 0,0 7,21H17A2,2 0 0,0 19,19V6H20V4H15V3H9M7,6H17V19H7V6M9,8V17H11V8H9M13,8V17H15V8H13Z"></path></svg><span style="flex: 1; min-width: 0; white-space: nowrap; overflow: hidden; text-overflow: ellipsis">Verwijderen</span></a>
+    
+    <a href="#" role="menuitem" aria-haspopup="true" aria-expanded="false" style="display: flex; align-items: center; gap: 10px; min-height: 32px; padding: 0 10px; border-radius: 6px; font-size: 14px; text-decoration: none; margin-top: 4px; border-top: 1px solid var(--sc-work-soft, #eef0f3); border-radius: 0; padding-top: 4px; min-height: 38px; color: var(--sc-work-ink, #1b1c1d);"><svg width="18" height="18" viewbox="0 0 24 24" fill="currentColor" aria-hidden="true" style="flex: none"><path d="M12,15.5A3.5,3.5 0 0,1 8.5,12A3.5,3.5 0 0,1 12,8.5A3.5,3.5 0 0,1 15.5,12A3.5,3.5 0 0,1 12,15.5M19.43,12.97C19.47,12.65 19.5,12.33 19.5,12C19.5,11.67 19.47,11.34 19.43,11L21.54,9.37C21.73,9.22 21.78,8.95 21.66,8.73L19.66,5.27C19.54,5.05 19.27,4.96 19.05,5.05L16.56,6.05C16.04,5.66 15.5,5.32 14.87,5.07L14.5,2.42C14.46,2.18 14.25,2 14,2H10C9.75,2 9.54,2.18 9.5,2.42L9.13,5.07C8.5,5.32 7.96,5.66 7.44,6.05L4.95,5.05C4.73,4.96 4.46,5.05 4.34,5.27L2.34,8.73C2.21,8.95 2.27,9.22 2.46,9.37L4.57,11C4.53,11.34 4.5,11.67 4.5,12C4.5,12.33 4.53,12.65 4.57,12.97L2.46,14.63C2.27,14.78 2.21,15.05 2.34,15.27L4.34,18.73C4.46,18.95 4.73,19.03 4.95,18.95L7.44,17.94C7.96,18.34 8.5,18.68 9.13,18.93L9.5,21.58C9.54,21.82 9.75,22 10,22H14C14.25,22 14.46,21.82 14.5,21.58L14.87,18.93C15.5,18.67 16.04,18.34 16.56,17.94L19.05,18.95C19.27,19.03 19.54,18.95 19.66,18.73L21.66,15.27C21.78,15.05 21.73,14.78 21.54,14.63L19.43,12.97Z"></path></svg><span style="flex: 1; min-width: 0">Instellingen</span><svg width="18" height="18" viewbox="0 0 24 24" fill="#5e6168" aria-hidden="true" style="flex: none;fill:var(--sc-work-muted, #5e6168)"><path d="M8.59,16.58L13.17,12L8.59,7.41L10,6L16,12L10,18L8.59,16.58Z"></path></svg></a>
     
   </div>
 </div>

diff --git a/screens-src/zuiddrecht/LpMeer.dc.html b/screens-src/zuiddrecht/LpMeer.dc.html
@@ -23,6 +23,12 @@ body{margin:0}
     <sc-for list="{{ dashboards }}" as="m" hint-placeholder-count="8">
       <a href="#" role="{{ m.role }}" aria-checked="{{ m.checked }}" style="{{ m.style }}"><svg width="18" height="18" viewBox="0 0 24 24" fill="currentColor" aria-hidden="true" style="flex: none"><path d="{{ m.icon }}"></path></svg><span style="flex: 1; min-width: 0; white-space: nowrap; overflow: hidden; text-overflow: ellipsis">{{ m.label }}</span><sc-if value="{{ m.hasMeta }}" hint-placeholder-val="{{ false }}"><span style="flex: none; font-size: 12px; color: #5e6168">{{ m.meta }}</span></sc-if></a>
     </sc-for>
+  </div>
+  <div style="display: flex; flex-direction: column; gap: 2px; min-width: 0">
+    <span style="padding: 10px 10px 4px; font-size: 12px; font-weight: 600; letter-spacing: 0.06em; text-transform: uppercase; color: #5e6168">Dit dashboard</span>
+    <sc-for list="{{ actions }}" as="a" hint-placeholder-count="7">
+      <a href="#" role="menuitem" style="{{ a.style }}"><svg width="18" height="18" viewBox="0 0 24 24" fill="currentColor" aria-hidden="true" style="flex: none"><path d="{{ a.icon }}"></path></svg><span style="flex: 1; min-width: 0; white-space: nowrap; overflow: hidden; text-overflow: ellipsis">{{ a.label }}</span></a>
+    </sc-for>
     <a href="#" role="menuitem" aria-haspopup="true" aria-expanded="{{ expanded }}" style="{{ settingsStyle }}"><svg width="18" height="18" viewBox="0 0 24 24" fill="currentColor" aria-hidden="true" style="flex: none"><path d="{{ cog }}"></path></svg><span style="flex: 1; min-width: 0">Instellingen</span><svg width="18" height="18" viewBox="0 0 24 24" fill="#5e6168" aria-hidden="true" style="flex: none"><path d="{{ chevron }}"></path></svg></a>
     <sc-if value="{{ isExpanded }}" hint-placeholder-val="{{ true }}">
       <div role="group" aria-label="Instellingen" style="display: flex; flex-direction: column; gap: 2px; margin: 0 0 4px 18px; padding-left: 8px; border-left: 2px solid #e4e6ea">
@@ -32,19 +38,13 @@ body{margin:0}
       </div>
     </sc-if>
   </div>
-  <div style="display: flex; flex-direction: column; gap: 2px; min-width: 0">
-    <span style="padding: 10px 10px 4px; font-size: 12px; font-weight: 600; letter-spacing: 0.06em; text-transform: uppercase; color: #5e6168">Dit dashboard</span>
-    <sc-for list="{{ actions }}" as="a" hint-placeholder-count="7">
-      <a href="#" role="menuitem" style="{{ a.style }}"><svg width="18" height="18" viewBox="0 0 24 24" fill="currentColor" aria-hidden="true" style="flex: none"><path d="{{ a.icon }}"></path></svg><span style="flex: 1; min-width: 0; white-space: nowrap; overflow: hidden; text-overflow: ellipsis">{{ a.label }}</span></a>
-    </sc-for>
-  </div>
 </div>
 </x-dc>
 <script type="text/x-dc" data-dc-script data-props='{"current":{"editor":"text","default":"Vandaag"},"expanded":{"editor":"text","default":"true"},"$preview":{"width":600,"height":900}}'>
 class Component extends DCLogic {
   renderVals() {
     // The one action menu of launchpad. Every board draws the same menu; only the current dashboard
-    // and whether Instellingen is unfolded differ per board.
+    // and whether Instellingen (last in the right column, under Verwijderen) is unfolded differ per board.
     const I = {
       home: 'M10,20V14H14V20H19V12H22L12,3L2,12H5V20H10Z',
       queue: 'M3,5H21V7H3V5M3,9H21V11H3V9M3,13H21V15H3V13M3,17H21V19H3V17Z',
@@ -90,12 +90,12 @@ class Component extends DCLogic {
       ['Bewerken', I.pencil], ['Widget toevoegen', I.plus], ['Delen', I.share], ['Link naar dit dashboard kopiëren', I.link],
       ['Kopie maken als nieuw dashboard', I.copy], ['Als standaard instellen', I.star]
     ].map(([label, icon]) => ({ label, icon, style: plain }));
-    actions.push({ label: 'Verwijderen', icon: I.bin, style: mi + 'color: #a30000; border-top: 1px solid #eef0f3; border-radius: 0 0 6px 6px; margin-top: 4px;' });
+    actions.push({ label: 'Verwijderen', icon: I.bin, style: mi + 'color: #a30000; border-top: 1px solid #eef0f3; border-radius: 0; margin-top: 4px;' });
     return {
       dashboards, settings, actions, cog: I.cog, isExpanded,
       expanded: isExpanded ? 'true' : 'false',
       chevron: isExpanded ? I.down : I.right,
-      settingsStyle: mi + 'margin-top: 6px; border-top: 1px solid #eef0f3; border-radius: 0; padding-top: 6px; min-height: 38px; ' + (isExpanded ? 'color: #1b1c1d; font-weight: 600;' : 'color: #1b1c1d;')
+      settingsStyle: mi + 'margin-top: 4px; border-top: 1px solid #eef0f3; border-radius: 0; padding-top: 4px; min-height: 38px; ' + (isExpanded ? 'color: #1b1c1d; font-weight: 600;' : 'color: #1b1c1d;')
     };
   }
 }

diff --git a/screens-src/zuiddrecht/LpVandaag.dc.html b/screens-src/zuiddrecht/LpVandaag.dc.html
@@ -45,7 +45,7 @@ a{color:#3669a5}a:hover{color:#234a78}
       </div>
       <div style="position: relative; flex: none; display: flex; flex-wrap: wrap; gap: 10px">
         <button type="button" aria-haspopup="menu" aria-expanded="true" style="display: flex; align-items: center; gap: 8px; height: 40px; padding: 0 14px; border: 1px solid #3669a5; border-radius: 8px; background: #eaf0f7; font: 600 14px 'Fira Sans', sans-serif; color: #234a78"><svg width="16" height="16" viewBox="0 0 24 24" fill="currentColor" aria-hidden="true"><path d="M16,12A2,2 0 0,1 18,10A2,2 0 0,1 20,12A2,2 0 0,1 18,14A2,2 0 0,1 16,12M10,12A2,2 0 0,1 12,10A2,2 0 0,1 14,12A2,2 0 0,1 12,14A2,2 0 0,1 10,12M4,12A2,2 0 0,1 6,10A2,2 0 0,1 8,12A2,2 0 0,1 6,14A2,2 0 0,1 4,12Z"></path></svg>Meer</button>
-        <dc-import name="LpMeer" current="Vandaag" expanded="false" hint-size="600px,520px"></dc-import>
+        <dc-import name="LpMeer" current="Vandaag" expanded="false" hint-size="600px,400px"></dc-import>
       </div>
     </div>
 

diff --git a/screens-src/zuiddrecht/LpWerkplek.dc.html b/screens-src/zuiddrecht/LpWerkplek.dc.html
@@ -43,7 +43,7 @@ a{color:#3669a5}a:hover{color:#234a78}
             <span style="display: inline-flex; align-items: center; gap: 6px; padding: 3px 12px 3px 8px; border-radius: 14px; background: #eaf0f7; color: #234a78; font-size: 14px; font-weight: 600"><svg width="16" height="16" viewBox="0 0 24 24" fill="currentColor" aria-hidden="true"><path d="M12,17.27L18.18,21L16.54,13.97L22,9.24L14.81,8.62L12,2L9.19,8.62L2,9.24L7.45,13.97L5.82,21L12,17.27Z"></path></svg>Persoonlijk dashboard · opent als eerste</span>
             <span>Maandag 5 oktober · laatst aangepast vrijdag</span>
           </div>
-          <dc-import name="LpMeer" current="Mijn werkplek" expanded="true" hint-size="600px,860px"></dc-import>
+          <dc-import name="LpMeer" current="Mijn werkplek" expanded="true" hint-size="600px,720px"></dc-import>
         </section>
 
         <div style="display: grid; grid-template-columns: repeat(3, minmax(0, 1fr)); gap: 16px; align-items: start">

diff --git a/screens-src/launchpad/DEMO-SEED.md b/screens-src/launchpad/DEMO-SEED.md
@@ -13,11 +13,15 @@ The boards are the UI canon. Where the seed and a board disagree, the board wins
 - No left menu. Launchpad has no app side bar, no "Menu" button, no "Startpagina aanpassen" and no Bewerken
   button in the page header. The header holds one action: Meer.
 - One Meer menu, identical on every dashboard (board LpMeer):
-  - Dashboards: every dashboard the user can open, marked standaard, gedeeld or groep; then Alle dashboards.
-  - Instellingen: one expandable item that unfolds in place: Persoonlijke instellingen, Beheerinstellingen,
-    Marktplaats, Sjablonen, Rapporten, Flows, Koppelingen, Documentatie, Functies en roadmap.
-  - Dit dashboard: Bewerken (enters edit mode), Widget toevoegen, Delen, Link naar dit dashboard kopiëren,
-    Kopie maken als nieuw dashboard, Als standaard instellen, and Verwijderen last in the error colour.
+  - Left column, Dashboards: every dashboard the user can open, marked standaard, gedeeld or groep; then
+    Alle dashboards.
+  - Right column, Dit dashboard: Bewerken (enters edit mode), Widget toevoegen, Delen, Link naar dit dashboard
+    kopiëren, Kopie maken als nieuw dashboard, Als standaard instellen, then Verwijderen in the error colour
+    above a rule.
+  - Instellingen: one expandable item at the bottom of the right column, under Verwijderen and a second rule,
+    that unfolds in place: Persoonlijke instellingen, Beheerinstellingen, Marktplaats, Sjablonen, Rapporten,
+    Flows, Koppelingen, Documentatie, Functies en roadmap. Under 960 px the menu is one column: Dashboards,
+    Dit dashboard, Instellingen last.
   - Not in the menu: Versies (a tab of the dashboard settings), Inplannen and Publicatie intrekken (tab
     Publicatie), and a separate Instellingen entry under Dit dashboard.
 - Edit mode shows the edit bar (LpBewerken): Kolommen, Widget toevoegen, Dashboardinstellingen (opens the
